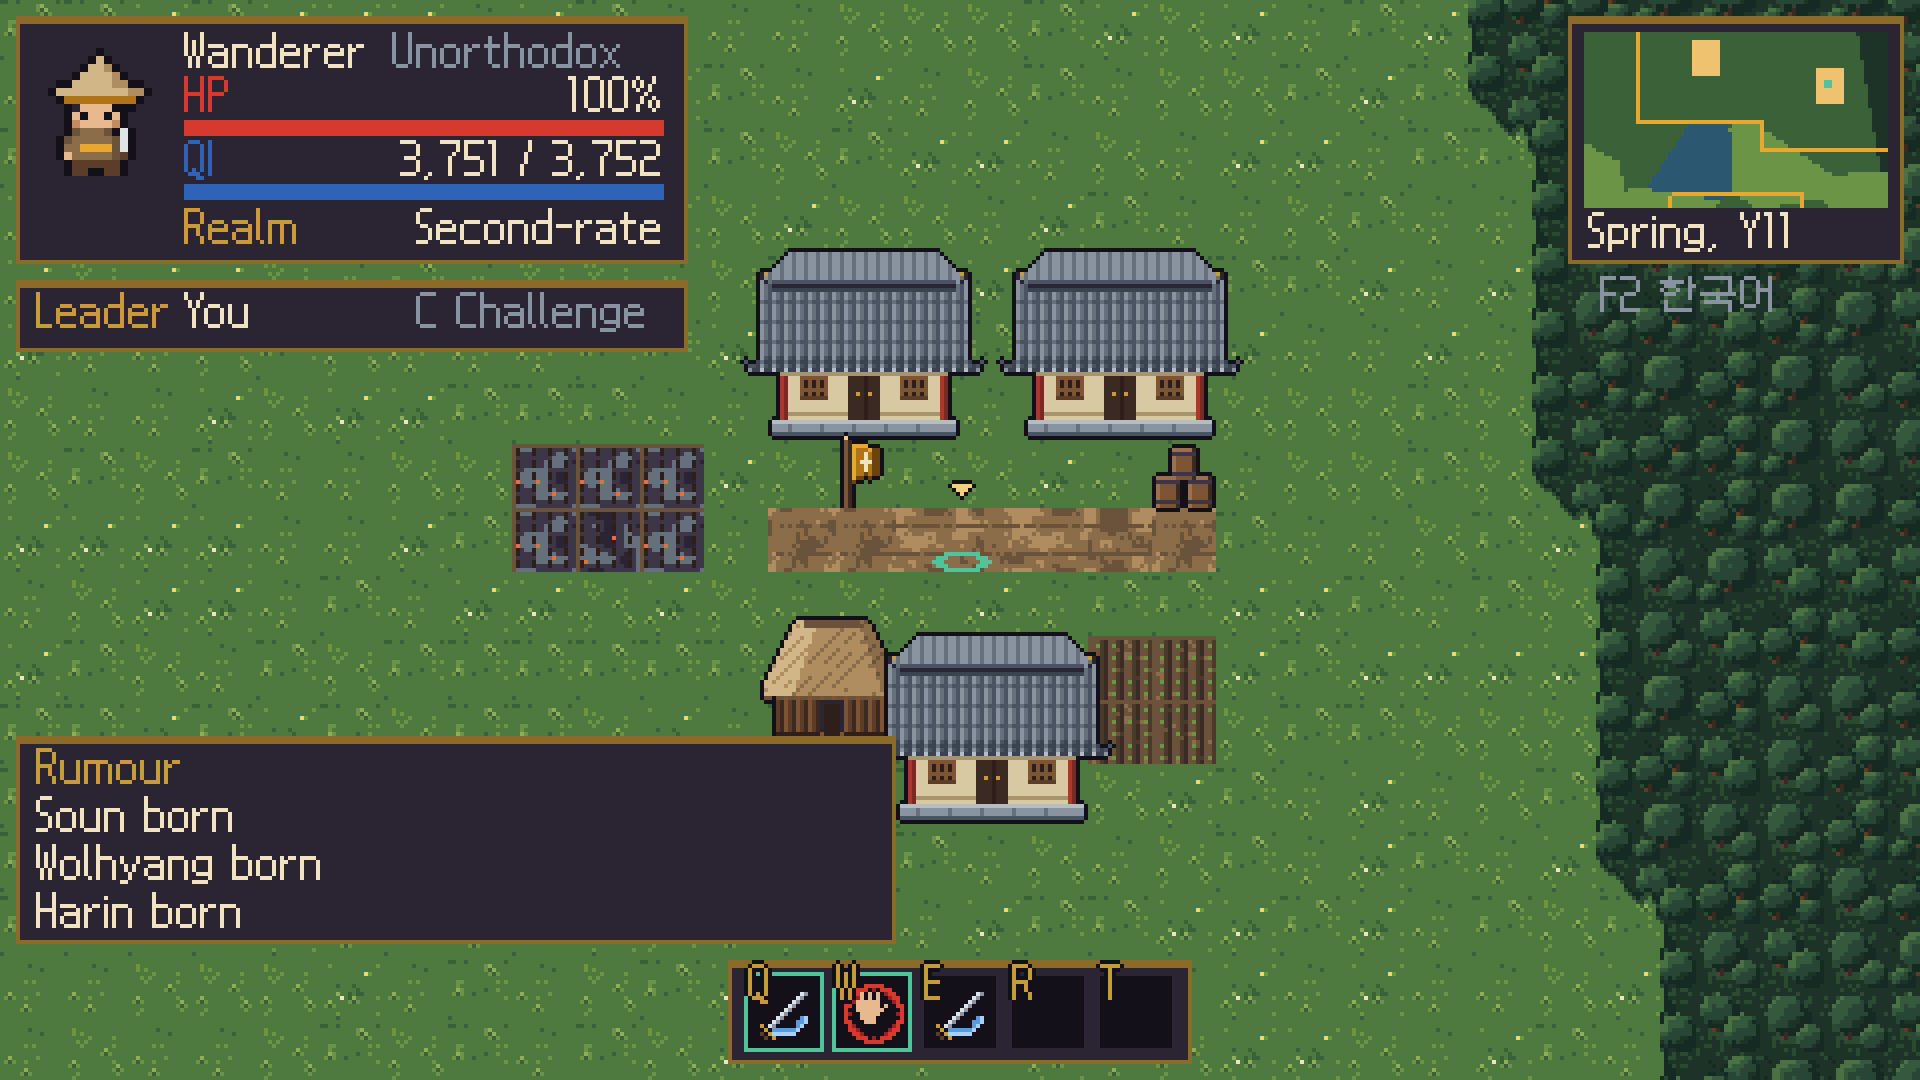
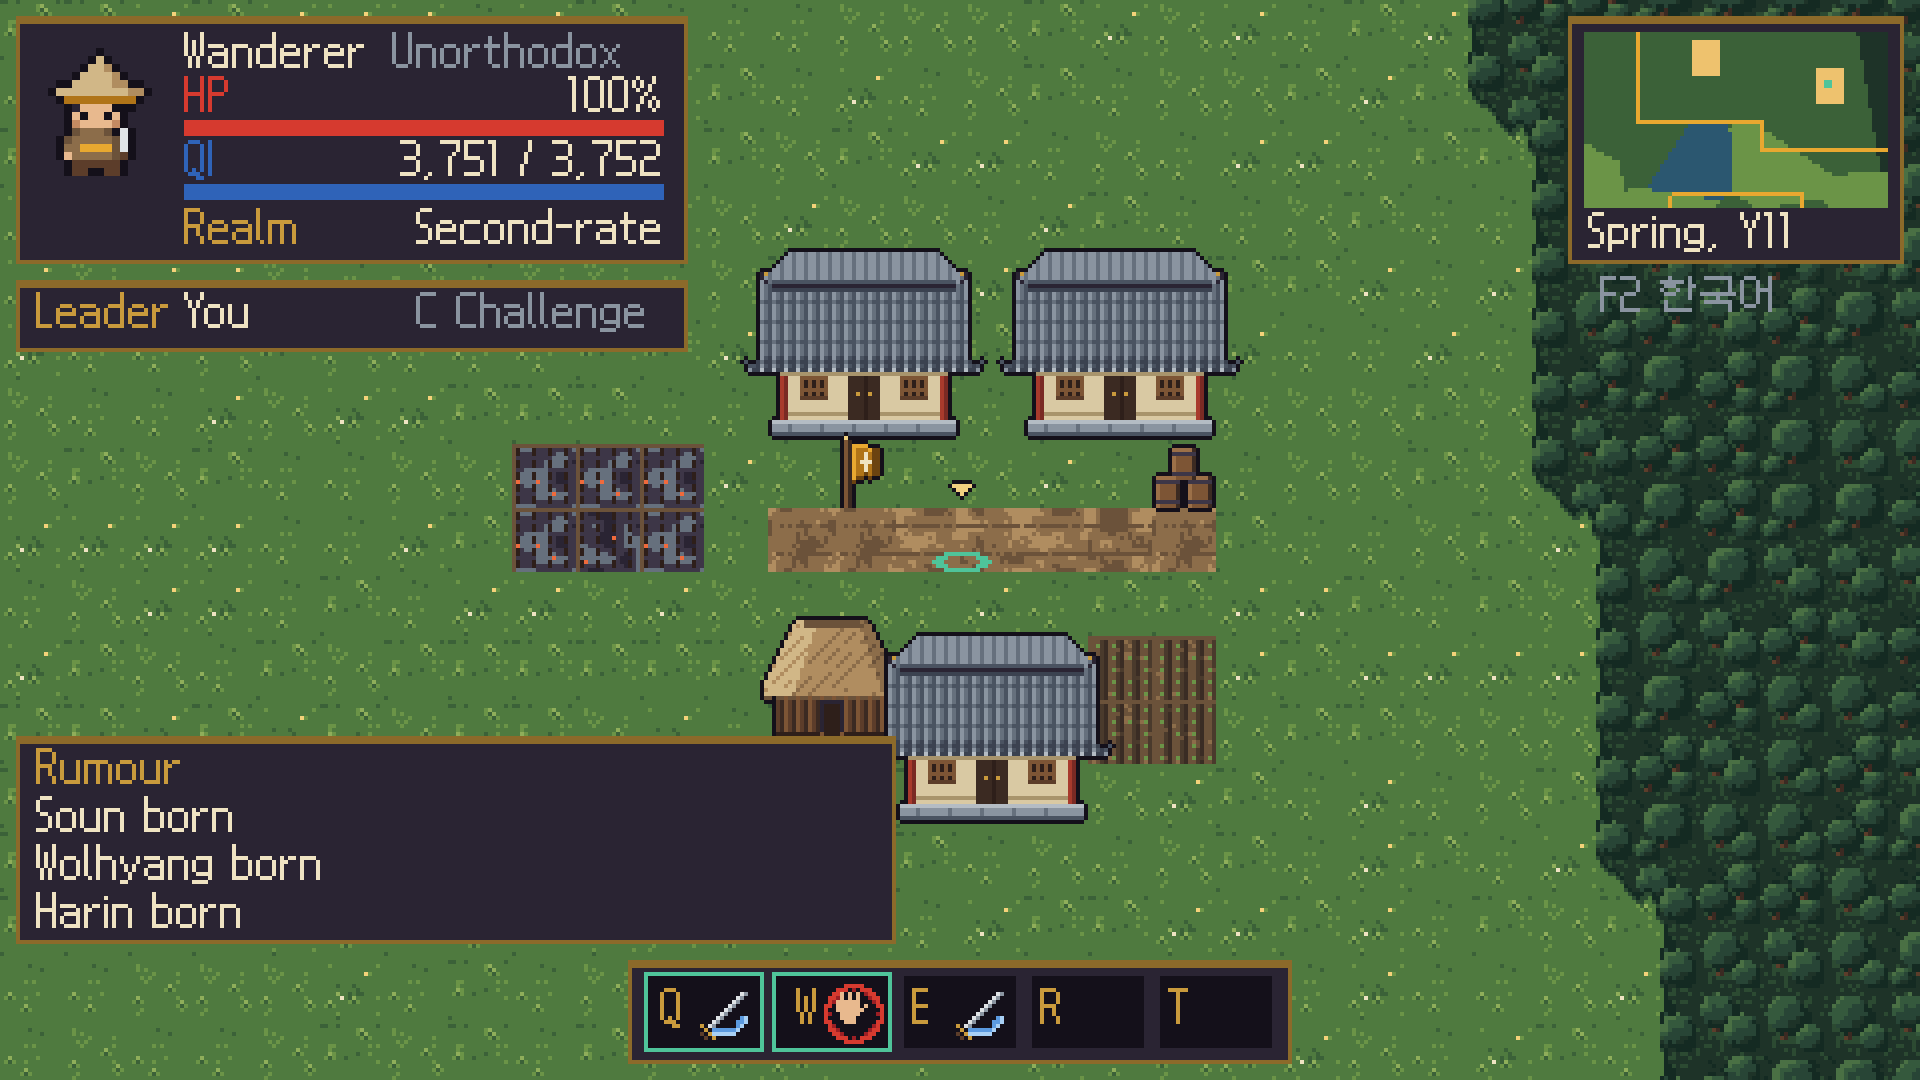
docs: recapture the arts screens for #161 at 569bb03

Changed region(s): [[0.3125, 0.8861, 0.6875, 1.0]]

diff --git a/README.md b/README.md
@@ -1,12 +1,12 @@
 # Evidence for #161
 
-Captures of `play.tscn` at `335fcdc44696424d1ce40f2902a094e0252e9e78`, the head of `feat/arts-hud` (#161, phase 2 of #159), made by `capture_arts.gd` with Godot 4.7.2 on macOS arm64 after `make build`: copied to the project root, then `godot --path . --script res://capture_arts.gd -- <dir>`. Each is 480x270 with a 4x nearest-neighbour copy (`_4x`), in Korean (`_ko`) and English (`_en`). This branch is never merged.
+Captures of `play.tscn` at `569bb03ad92bab1593322dfc5d6cd208f1c8c25f`, the head of `feat/arts-hud` after the review's changes (the first set was at `335fcdc`) (#161, phase 2 of #159), made by `capture_arts.gd` with Godot 4.7.2 on macOS arm64 after `make build`: copied to the project root, then `godot --path . --script res://capture_arts.gd -- <dir>`. Each is 480x270 with a 4x nearest-neighbour copy (`_4x`), in Korean (`_ko`) and English (`_en`). This branch is never merged.
 
 The world is seed 2026's region with five-tick days, lived 10 years, steering the army of the first person who knows an art skill (army 2, person 4: Black Fang Dart, second-rate). The play scene's own ticks are held so it keeps steering that army. No person in 8 seeds lived 30 years learned a second art, so no capture shows the 약화/Weaker tag.
 
-- `hud_arts_*`: the keyboard HUD: qi against the store, the realm by name, and the technique bar's five slots on Q W E R T holding the loadout, R and T empty.
+- `hud_arts_*`: the keyboard HUD: qi against the store, the realm by name, and the technique bar's five slots on Q W E R T holding the loadout, R and T empty, each key in a column of its own left of its slot's icon.
 - `arts_panel_*`: K's arts panel, Black Fang Dart chosen and put on T (jade); its unlearned skills greyed, the realms above the person's in crimson; the army's skills with no cost and a shared cooldown.
-- `notice_*`: the notice of a realm gained, from the core's `RealmGained` event, after ticking the world until one reached the steered person.
+- `notice_*`: the notice of a realm gained, from the core's store of progress (ADR 0036), after ticking the world until one reached the steered person.
 - `pause_*`: the pause panel, its guide with K's row.
 - `mobile_hud_arts_*`: the touch HUD with the 무공 button and the arc holding the loadout, the empty slots crossed.
 - `arts_panel_touch_*`: the 무공 button tapped, then the Black Fang Dart tile tapped: the arc ringed in jade, waiting, and the close button in the pause button's place.
@@ -15,21 +15,21 @@ The world is seed 2026's region with five-tick days, lived 10 years, steering th
 The capture's log lines:
 
     capture_arts: lived 10 years; steering army 2, person 4, knowing 1 arts, 3 skills, realm 2, qi 3751 of 3752
-    capture_arts: hud_arts_ko.png 480x270, sha256 c383ae830c7a8029, locale ko; qi 3,751 / 3,752, realm 이류, slots ["army", "army", "Black Fang Dart", "-", "-"]
-    capture_arts: arts_panel_ko.png 480x270, sha256 fcd35db2f5b8da7b, locale ko; selected { "art": 2, "skill": 0 }, just 4, slots [{ "art": -1, "skill": 0 }, { "art": -1, "skill": 1 }, {  }, {  }, { "art": 2, "skill": 0 }]
+    capture_arts: hud_arts_ko.png 480x270, sha256 9c5a7baf1e8a851e, locale ko; qi 3,751 / 3,752, realm 이류, slots ["army", "army", "Black Fang Dart", "-", "-"]
+    capture_arts: arts_panel_ko.png 480x270, sha256 5e3f5caf9274c7d4, locale ko; selected { "art": 2, "skill": 0 }, just 4, slots [{ "art": -1, "skill": 0 }, { "art": -1, "skill": 1 }, {  }, {  }, { "art": 2, "skill": 0 }]
     capture_arts: ticked 11240 for a notice: ["경지 돌파: 일류"]
-    capture_arts: notice_ko.png 480x270, sha256 985d1146ded92ade, locale ko; notice "경지 돌파: 일류" shown true
-    capture_arts: pause_ko.png 480x270, sha256 22e3432868d16cd8, locale ko; 10 controls in the guide
-    capture_arts: mobile_hud_arts_ko.png 480x270, sha256 5d942583f5ca1b06, locale ko; touch shown true, 5 buttons, slots [true, true, false, false, true]
+    capture_arts: notice_ko.png 480x270, sha256 4e3c7b76ce994043, locale ko; notice "경지 돌파: 일류" shown true
+    capture_arts: pause_ko.png 480x270, sha256 749fdb947bd58fd2, locale ko; 10 controls in the guide
+    capture_arts: mobile_hud_arts_ko.png 480x270, sha256 9555709303cf73c7, locale ko; touch shown true, 5 buttons, slots [true, true, false, false, true]
     capture_arts: arts_panel_touch_ko.png 480x270, sha256 a2a5388a6d815253, locale ko; panel open true, placing true, waiting true, selected { "art": 2, "skill": 0 }
     capture_arts: arts_panel_touch_placed_ko.png 480x270, sha256 4e3e238cddd7830f, locale ko; slots [{ "art": -1, "skill": 0 }, { "art": -1, "skill": 1 }, {  }, { "art": 2, "skill": 0 }, {  }], just 3
     capture_arts: lived 10 years; steering army 2, person 4, knowing 1 arts, 3 skills, realm 2, qi 3751 of 3752
-    capture_arts: hud_arts_en.png 480x270, sha256 0284cd819819c6fd, locale en; qi 3,751 / 3,752, realm Second-rate, slots ["army", "army", "Black Fang Dart", "-", "-"]
-    capture_arts: arts_panel_en.png 480x270, sha256 6343f44992123c25, locale en; selected { "art": 2, "skill": 0 }, just 4, slots [{ "art": -1, "skill": 0 }, { "art": -1, "skill": 1 }, {  }, {  }, { "art": 2, "skill": 0 }]
+    capture_arts: hud_arts_en.png 480x270, sha256 61fd24acd761ff5b, locale en; qi 3,751 / 3,752, realm Second-rate, slots ["army", "army", "Black Fang Dart", "-", "-"]
+    capture_arts: arts_panel_en.png 480x270, sha256 0469da98ad6a5b54, locale en; selected { "art": 2, "skill": 0 }, just 4, slots [{ "art": -1, "skill": 0 }, { "art": -1, "skill": 1 }, {  }, {  }, { "art": 2, "skill": 0 }]
     capture_arts: ticked 11240 for a notice: ["Realm reached: First-rate"]
-    capture_arts: notice_en.png 480x270, sha256 f337c13e7bfb22d7, locale en; notice "Realm reached: First-rate" shown true
-    capture_arts: pause_en.png 480x270, sha256 43c76b2b89983bca, locale en; 10 controls in the guide
-    capture_arts: mobile_hud_arts_en.png 480x270, sha256 a305d0a3b47cc019, locale en; touch shown true, 5 buttons, slots [true, true, false, false, true]
+    capture_arts: notice_en.png 480x270, sha256 b4c4437fb55c73ec, locale en; notice "Realm reached: First-rate" shown true
+    capture_arts: pause_en.png 480x270, sha256 ee00afc75de766ce, locale en; 10 controls in the guide
+    capture_arts: mobile_hud_arts_en.png 480x270, sha256 4ffe2239b175faf7, locale en; touch shown true, 5 buttons, slots [true, true, false, false, true]
     capture_arts: arts_panel_touch_en.png 480x270, sha256 820e9977c910e341, locale en; panel open true, placing true, waiting true, selected { "art": 2, "skill": 0 }
     capture_arts: arts_panel_touch_placed_en.png 480x270, sha256 8f76e2abd81b3bdc, locale en; slots [{ "art": -1, "skill": 0 }, { "art": -1, "skill": 1 }, {  }, { "art": 2, "skill": 0 }, {  }], just 3
     capture_arts: 14 images, none repeated true
